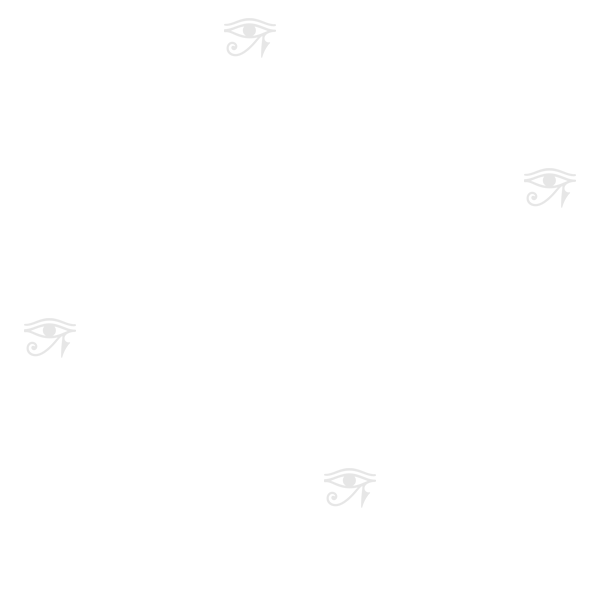
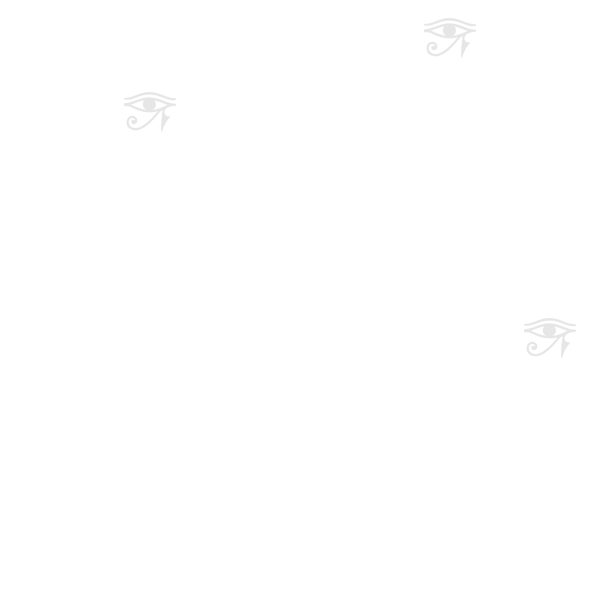
v328: olhos em alturas com espacamentos diferentes (37/113/150) — em 0/2/4/6 eles caiam a cada 75px e a faixa regular continuava; numero da build visivel em Ajustes

diff --git a/css/styles.css b/css/styles.css
@@ -2829,7 +2829,7 @@ body.time-picker-open { overflow: hidden; }
    A opacidade está BAIXADA no próprio alfa do PNG e no stroke do SVG, então
    as duas camadas têm exatamente o mesmo peso. Modo dia usa a versão preta. */
 .chat-lista.wa-fundo {
[2 lines of base64/hex data omitted]
   background-size: 300px 300px, 300px 300px;
   background-repeat: repeat, repeat;
   border-radius: 12px;

diff --git a/index.html b/index.html
@@ -10,7 +10,8 @@
 <!-- Force-update: unregister → re-register → SW ready → reload -->
 <script>
   (function() {
-    var V = '327';
+    var V = '328';
+    window.__BUILD = V;   // exibido em Ajustes: encerra a dúvida de 'a atualização chegou?'
     if (localStorage.getItem('_visao_build') !== V) {
       localStorage.setItem('_visao_build', V);
       if ('caches' in window) {
@@ -43,7 +44,7 @@
 <meta name="apple-mobile-web-app-status-bar-style" content="black-translucent">
 <meta name="apple-mobile-web-app-title" content="Falcon">
 <meta name="mobile-web-app-capable" content="yes">
-<link rel="stylesheet" href="css/styles.css?v=20260721d">
+<link rel="stylesheet" href="css/styles.css?v=20260721e">
 <style>.onboarding-logo,.ajustes-avatar{background:#4f46e5!important}</style>
 <script>
   // Aplica tema ANTES de qualquer render — evita flash de tema errado
@@ -61,11 +62,11 @@
 <body>
   <div id="app">
     <div style="padding:80px 20px;text-align:center;color:var(--muted)">
-      <img src="icons/icon-192.png?v=20260721d" style="width:64px;height:64px;border-radius:18px;display:block;margin:0 auto 14px;object-fit:cover;">
+      <img src="icons/icon-192.png?v=20260721e" style="width:64px;height:64px;border-radius:18px;display:block;margin:0 auto 14px;object-fit:cover;">
       <div>Carregando Falcon...</div>
     </div>
   </div>
-  <script type="module" src="js/inicializador.js?v=20260721d"></script>
+  <script type="module" src="js/inicializador.js?v=20260721e"></script>
 
   <!-- Registro do Service Worker (PWA) -->
   <script>

diff --git a/sw.js b/sw.js
@@ -6,7 +6,7 @@
 //   - Firebase/CDN → sempre rede (não cacheia)
 // ═══════════════════════════════════════════════════════════════
 
-const CACHE_NAME = 'visao-v327';
+const CACHE_NAME = 'visao-v328';
 
 // Estado de mute — atualizado via postMessage do app principal
 let _muted = false;

diff --git a/js/screens/tela-ajustes.js b/js/screens/tela-ajustes.js
@@ -179,7 +179,7 @@ export async function renderAjustes(app) {
         `)}
 
         <div class="ajustes-version">
-          Falcon · v1.0.0 · MVP<br>
+          Falcon · v1.0.0 · build ${window.__BUILD || '?'}<br>
           Desenvolvido por Élton Longaray
         </div>
       </div>
